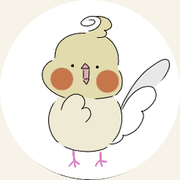
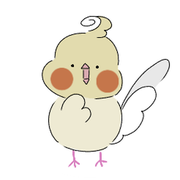
ことり：ホーム画面のアイコンの周りを白に（丸との境目をなくす）
Claude-Session: https://claude.ai/code/session_015RNEXTziUxfydmzoeTcHUn

diff --git a/kotori/index.html b/kotori/index.html
@@ -6,7 +6,7 @@
 <meta name="robots" content="noindex, nofollow">
 <title>ことり 管理画面</title>
 <link rel="manifest" href="manifest.webmanifest">
-<link rel="apple-touch-icon" href="icon-180.png?v=2">
+<link rel="apple-touch-icon" href="icon-180.png?v=3">
 <link rel="icon" href="icon-192.png">
 <meta name="apple-mobile-web-app-capable" content="yes">
 <meta name="apple-mobile-web-app-title" content="ことり">

diff --git a/kotori/stock.html b/kotori/stock.html
@@ -6,7 +6,7 @@
 <meta name="robots" content="noindex, nofollow">
 <title>手動投稿ストック・楽天ROOM</title>
 <link rel="manifest" href="manifest.webmanifest">
-<link rel="apple-touch-icon" href="icon-180.png">
+<link rel="apple-touch-icon" href="icon-180.png?v=3">
 <link rel="icon" href="icon-192.png">
 <meta name="theme-color" content="#FFC83C">
 <style>
